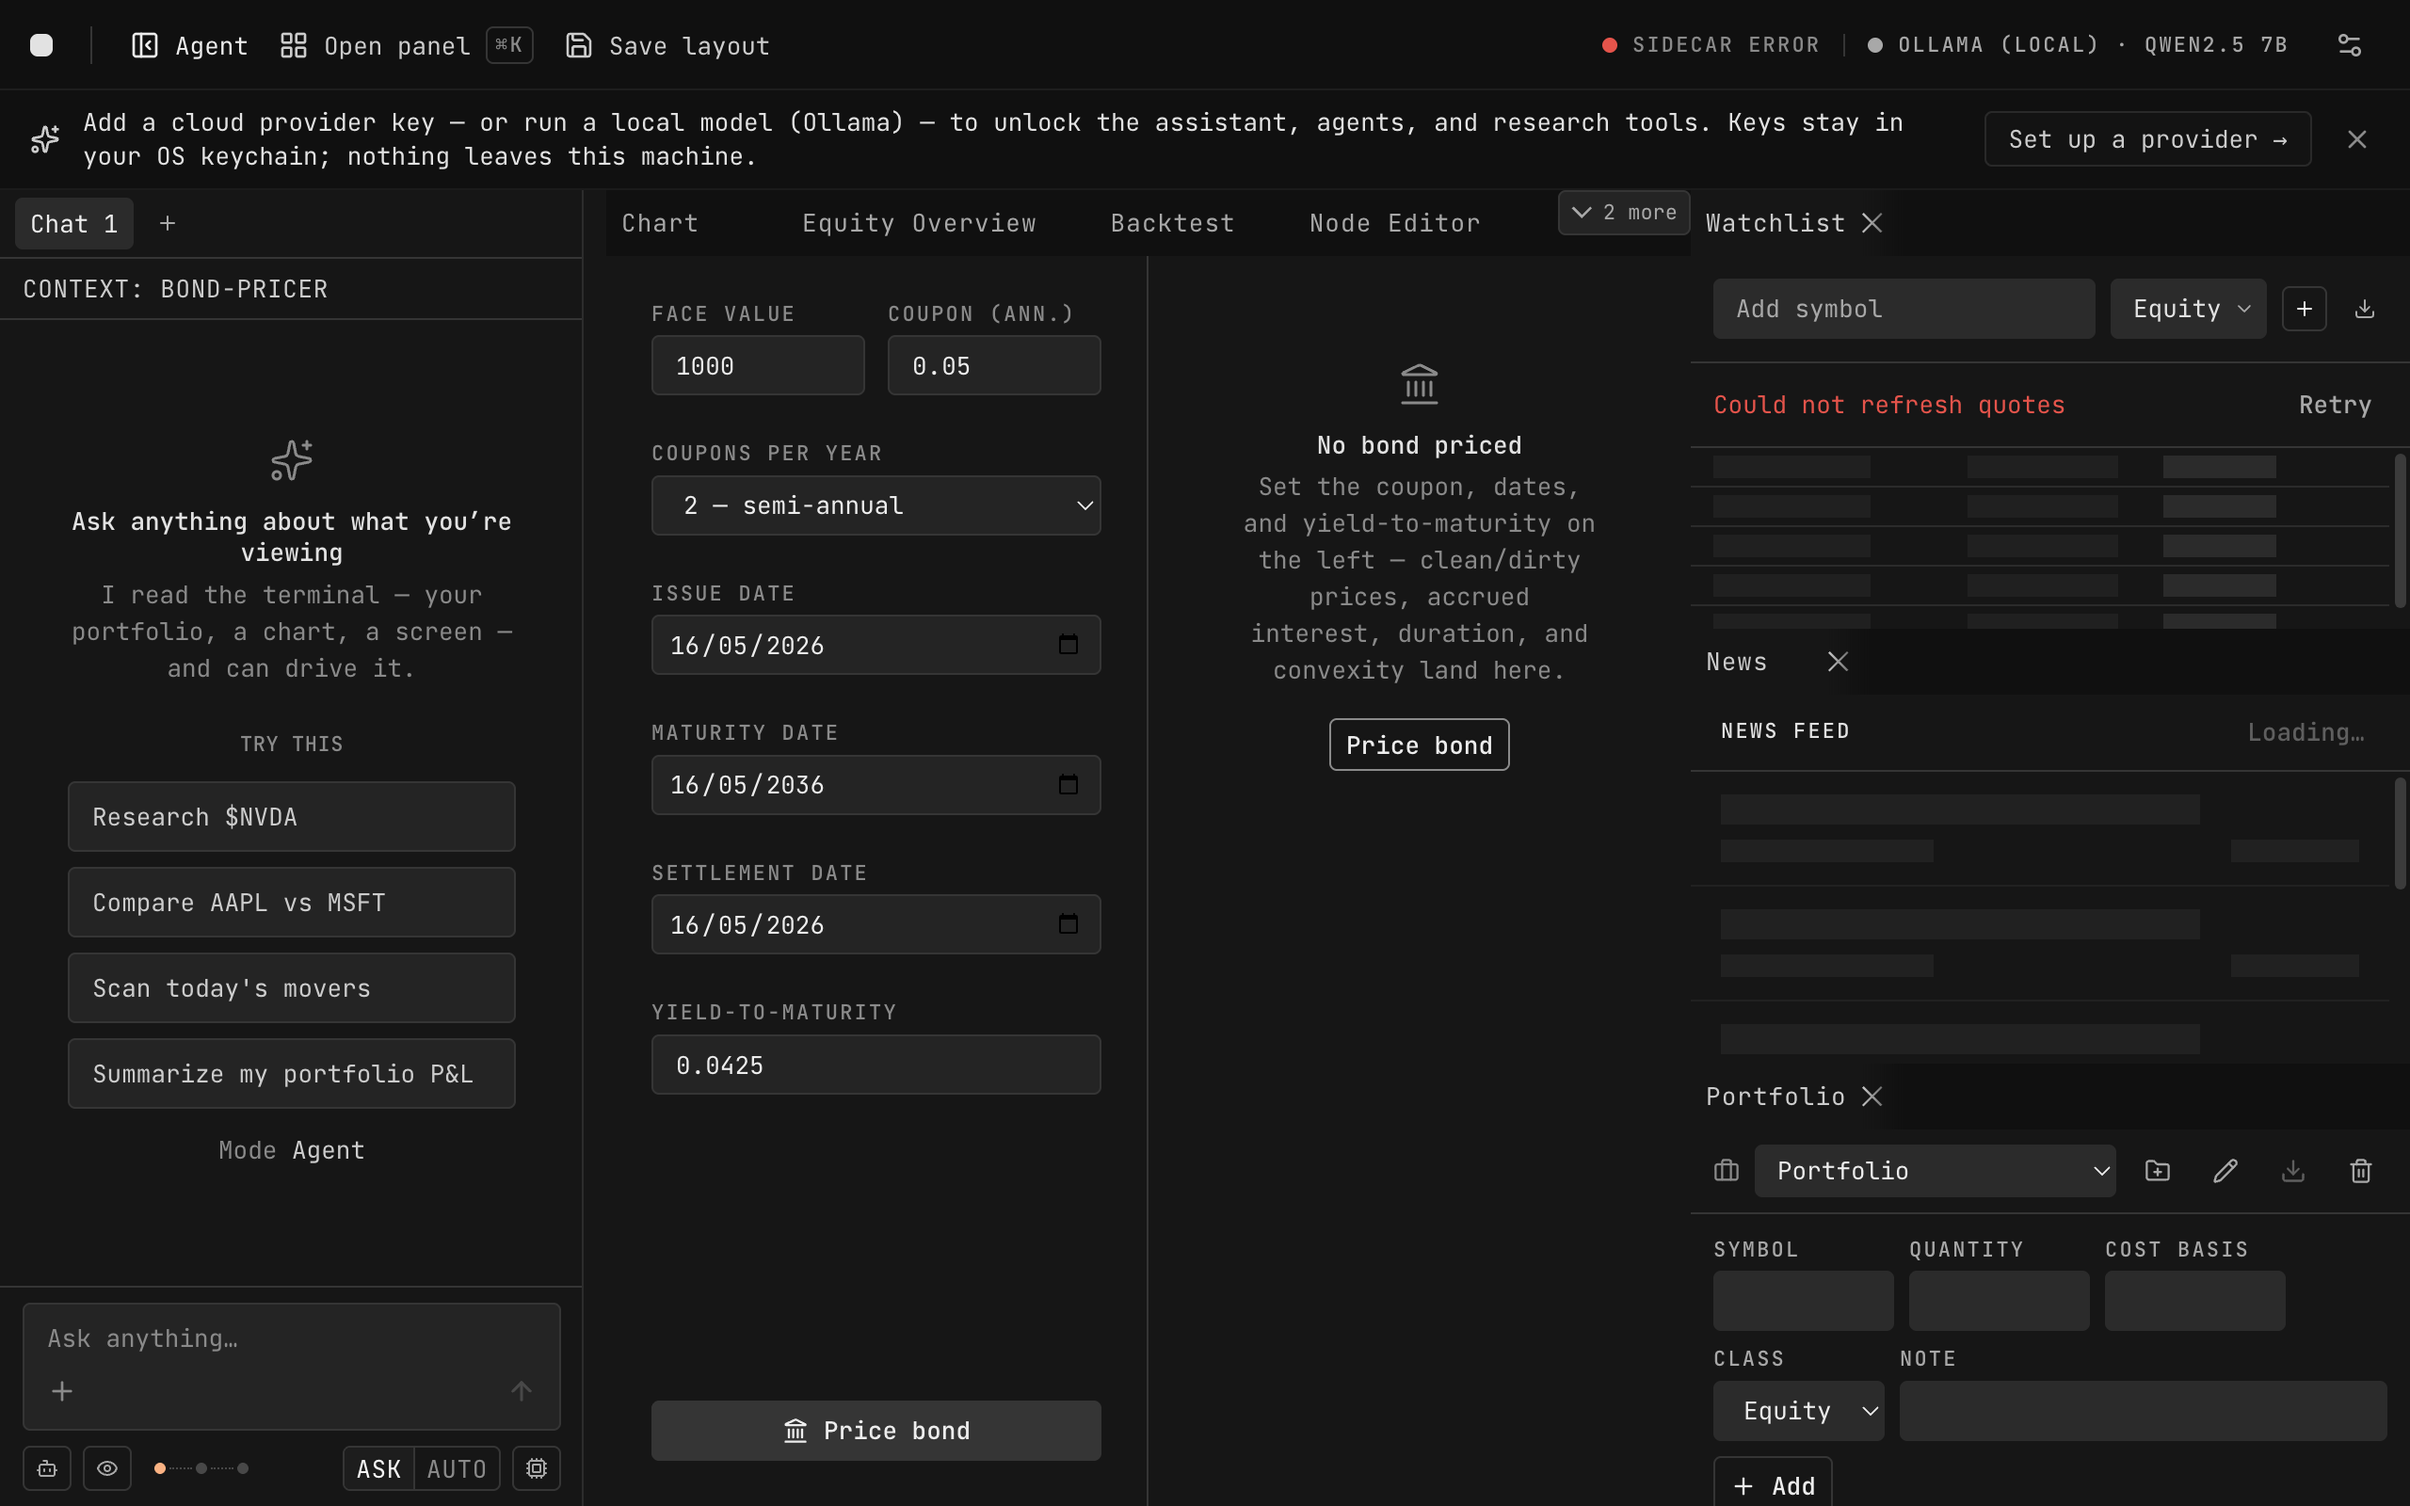
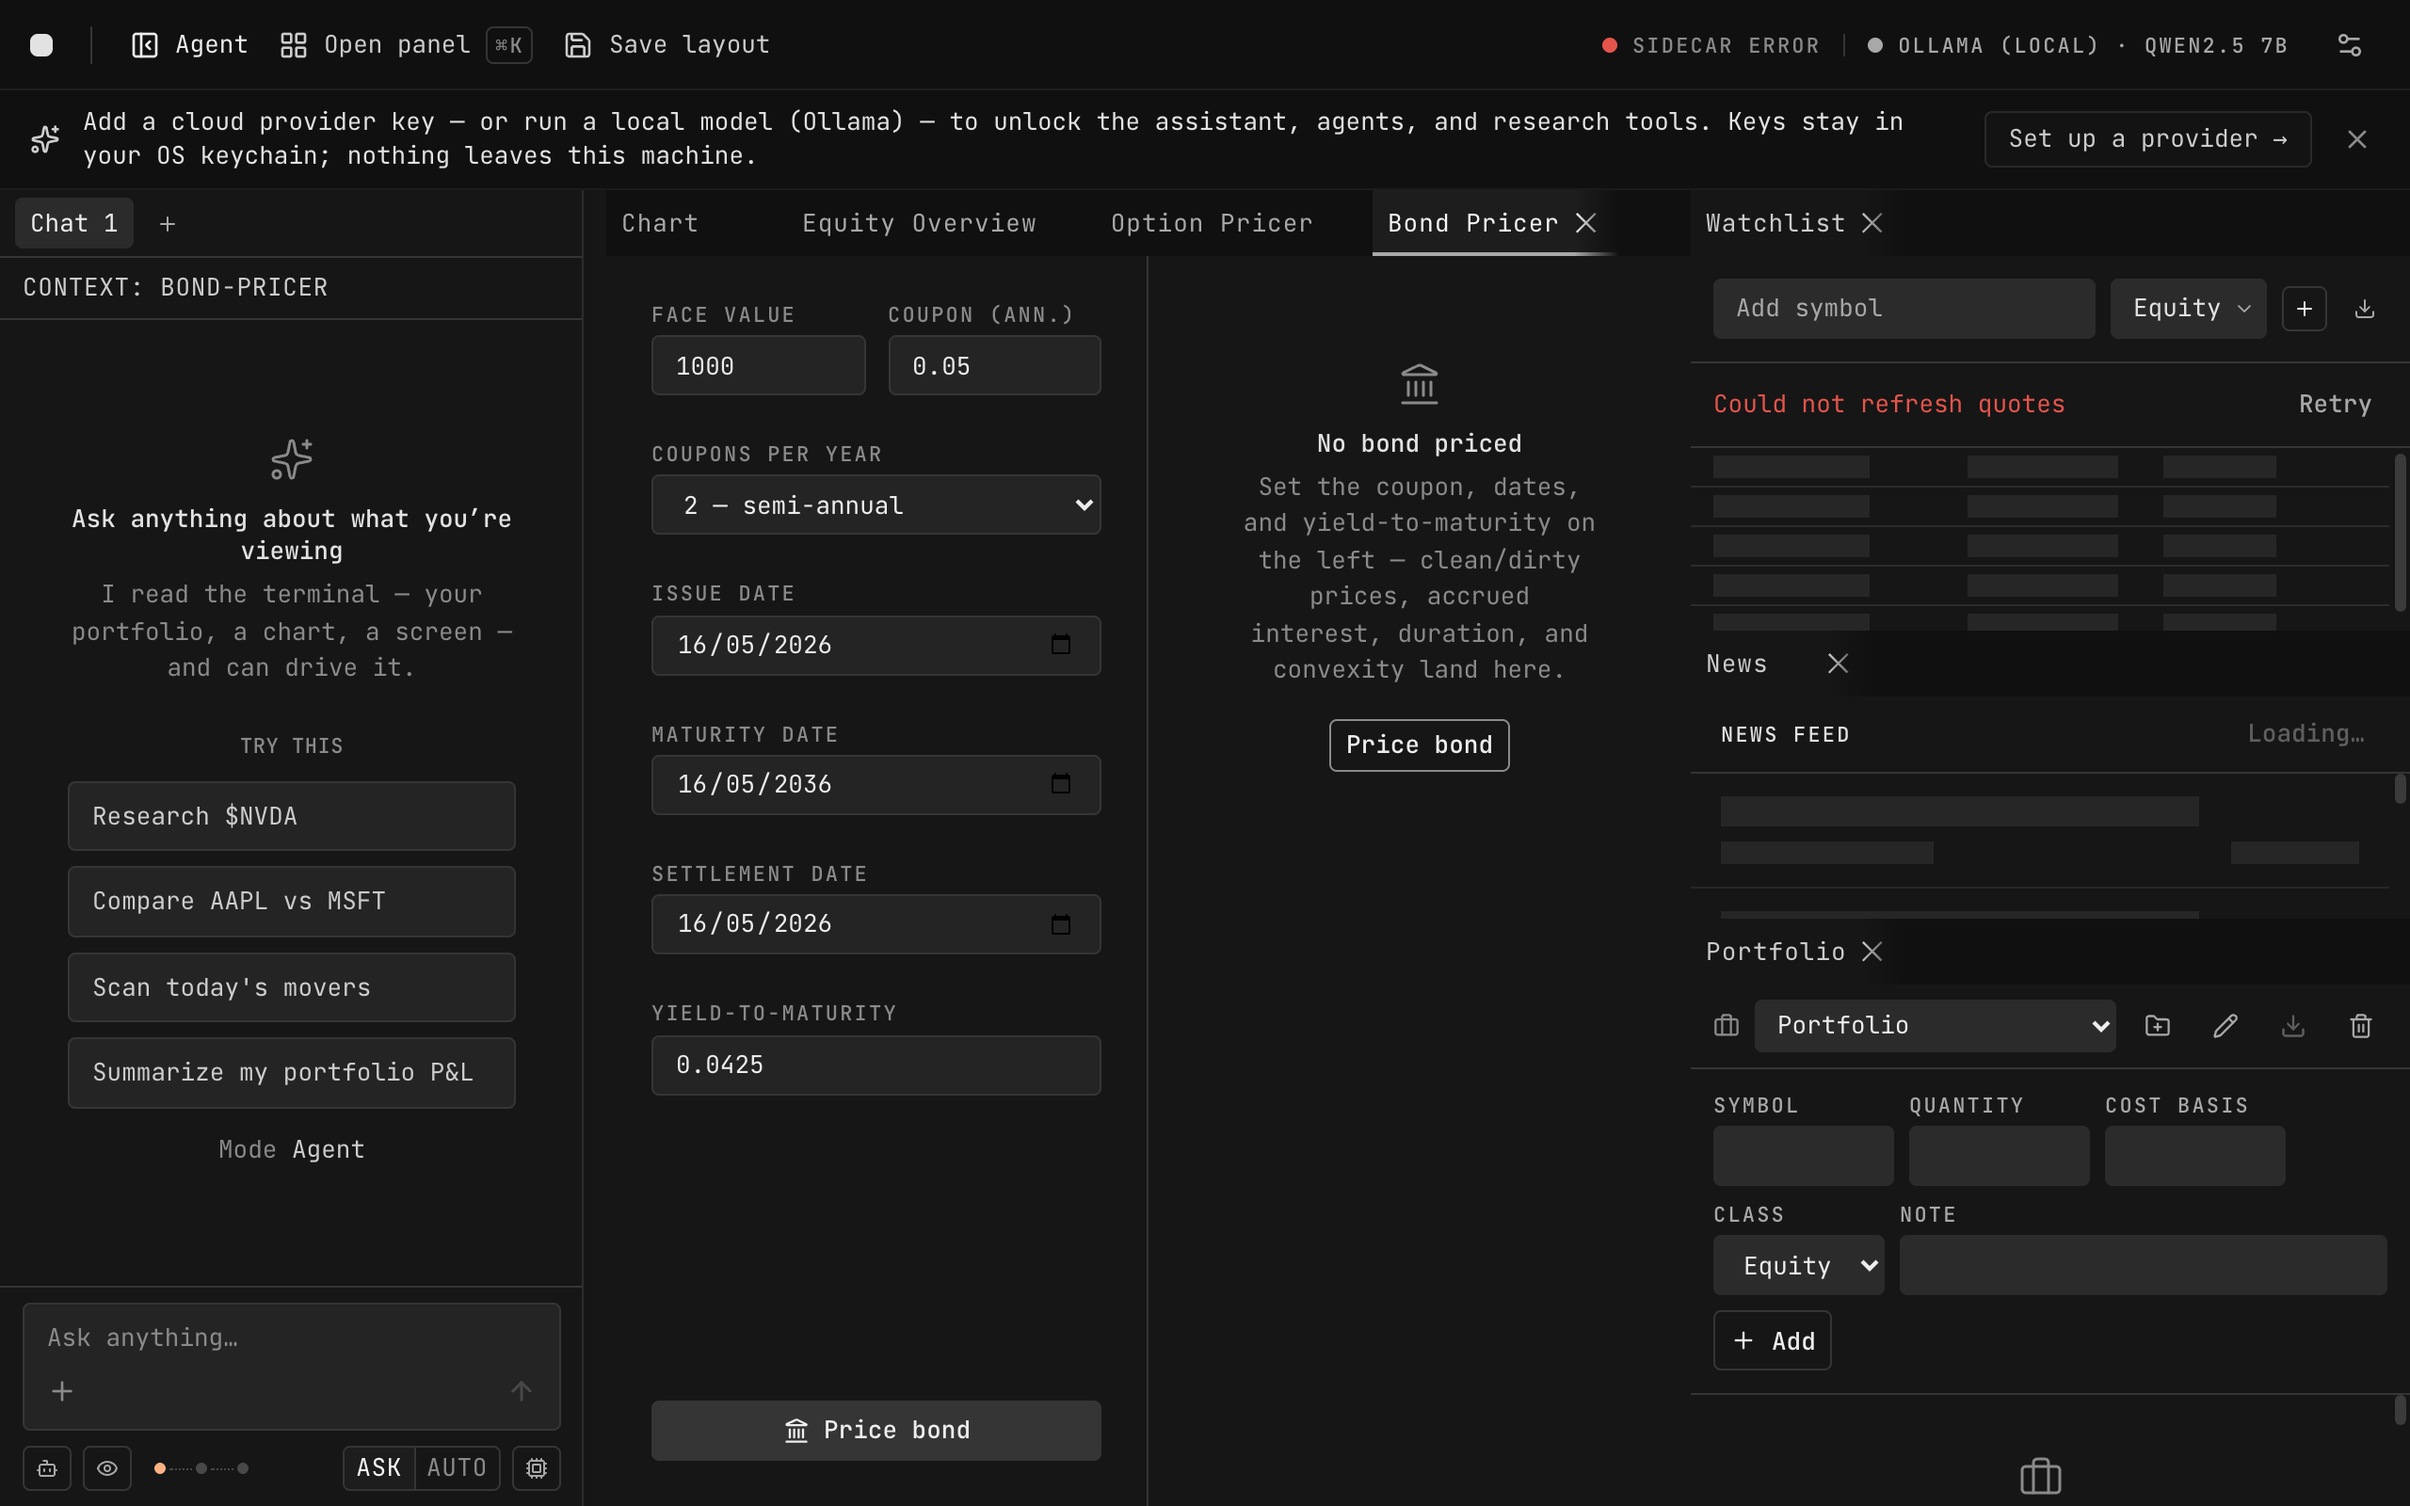
fix(r9): quant date inputs ride full-width rows - the 2-col grid step clipped the year
The de48fca px-2 inset did not deliver: at the option-pricer/greeks fixed
w-72 rail the 2-col grid cell is ~112px, and 112 - 16 (px-2) - ~22
(native calendar indicator) leaves less room than dd/mm/yyyy needs, so
the year's last digit rendered half-cut behind the icon at DEFAULT panel
width (reviewer blocker, E2 gate).

Fix follows the unaffected BondPricer reference: Valuation moves out of
the grid onto a full-width rail row (Volatility joins it so the grid
stays a clean 2x2 of paired numerics), and the px-2 date ternary reverts
to the uniform px-3 in all three Field components - full-width rows make
the inset hack unnecessary and restore left text-edge alignment.

Verified live (headless Chrome CDP at 1280x800@2x): every date field in
option-pricer/bond-pricer/greeks measures 226-237px clientWidth with
180-191px of text room for the ~51px dd/mm/yyyy (fits with 3.5x
headroom); 4x zoom crops of both Valuation fields show the full year.
The three affected captures are refreshed with the fixed rendering;
track report claims corrected to match.

vitest 141 files / 1378 tests green (quant 23/23); lint, typecheck,
format:check clean.

diff --git a/src/modules/quant/GreeksDashboard.tsx b/src/modules/quant/GreeksDashboard.tsx
@@ -58,9 +58,9 @@ function Field({ label, value, onChange, type = "number", step, disabled, testId
         onChange={(e) => onChange(e.target.value)}
         disabled={disabled}
         data-testid={testId}
-        // Date inputs reserve ~20px for the native calendar indicator — the
-        // tighter px-2 inset keeps dd/mm/yyyy whole at the 2-col grid step.
-        className={`bg-charcoal-850 text-charcoal-100 border-charcoal-700 rounded-control text-body focus-visible:border-charcoal-500 h-8 w-full border tabular-nums outline-none disabled:opacity-50 ${type === "date" ? "px-2" : "px-3"}`}
+        // Date inputs ride full-width rows (never the 2-col grid) so dd/mm/yyyy
+        // plus the native calendar indicator always fit at the fixed rail width.
+        className="bg-charcoal-850 text-charcoal-100 border-charcoal-700 rounded-control text-body focus-visible:border-charcoal-500 h-8 w-full border px-3 tabular-nums outline-none disabled:opacity-50"
       />
     </label>
   );
@@ -289,22 +289,24 @@ export function GreeksDashboard() {
           />
           <Field label="Risk-free r" value={r} onChange={setR} step="0.001" disabled={isRunning} />
           <Field label="Div. yield q" value={q} onChange={setQ} step="0.001" disabled={isRunning} />
-          <Field
-            label="Volatility σ"
-            value={vol}
-            onChange={setVol}
-            step="0.01"
-            disabled={isRunning}
-            testId="greeks-vol"
-          />
-          <Field
-            label="Valuation"
-            value={valuationDate}
-            onChange={setValuationDate}
-            type="date"
-            disabled={isRunning}
-          />
         </div>
+        <Field
+          label="Volatility σ"
+          value={vol}
+          onChange={setVol}
+          step="0.01"
+          disabled={isRunning}
+          testId="greeks-vol"
+        />
+        {/* Date fields take the rail's full width — at the 2-col grid step the
+            native calendar indicator clips the year's last digit. */}
+        <Field
+          label="Valuation"
+          value={valuationDate}
+          onChange={setValuationDate}
+          type="date"
+          disabled={isRunning}
+        />
         <Field
           label="Expiry"
           value={expiryDate}

diff --git a/src/modules/quant/OptionPricerPanel.tsx b/src/modules/quant/OptionPricerPanel.tsx
@@ -79,9 +79,9 @@ function Field({ label, value, onChange, type = "number", step, disabled, testId
         onChange={(e) => onChange(e.target.value)}
         disabled={disabled}
         data-testid={testId}
-        // Date inputs reserve ~20px for the native calendar indicator — the
-        // tighter px-2 inset keeps dd/mm/yyyy whole at the 2-col grid step.
-        className={`bg-charcoal-850 text-charcoal-100 border-charcoal-700 rounded-control text-body focus-visible:border-charcoal-500 h-8 w-full border tabular-nums outline-none disabled:opacity-50 ${type === "date" ? "px-2" : "px-3"}`}
+        // Date inputs ride full-width rows (never the 2-col grid) so dd/mm/yyyy
+        // plus the native calendar indicator always fit at the fixed rail width.
+        className="bg-charcoal-850 text-charcoal-100 border-charcoal-700 rounded-control text-body focus-visible:border-charcoal-500 h-8 w-full border px-3 tabular-nums outline-none disabled:opacity-50"
       />
     </label>
   );
@@ -412,22 +412,24 @@ export function OptionPricerPanel() {
             disabled={isRunning}
             testId="field-div"
           />
-          <Field
-            label="Volatility σ"
-            value={vol}
-            onChange={setVol}
-            step="0.01"
-            disabled={isRunning}
-            testId="field-vol"
-          />
-          <Field
-            label="Valuation"
-            value={valuationDate}
-            onChange={setValuationDate}
-            type="date"
-            disabled={isRunning}
-          />
         </div>
+        <Field
+          label="Volatility σ"
+          value={vol}
+          onChange={setVol}
+          step="0.01"
+          disabled={isRunning}
+          testId="field-vol"
+        />
+        {/* Date fields take the rail's full width — at the 2-col grid step the
+            native calendar indicator clips the year's last digit. */}
+        <Field
+          label="Valuation"
+          value={valuationDate}
+          onChange={setValuationDate}
+          type="date"
+          disabled={isRunning}
+        />
         <Field
           label="Expiry"
           value={expiryDate}

diff --git a/src/modules/quant/BondPricerPanel.tsx b/src/modules/quant/BondPricerPanel.tsx
@@ -54,9 +54,9 @@ function Field({ label, value, onChange, type = "number", step, disabled, testId
         onChange={(e) => onChange(e.target.value)}
         disabled={disabled}
         data-testid={testId}
-        // Date inputs reserve ~20px for the native calendar indicator — the
-        // tighter px-2 inset keeps dd/mm/yyyy whole at the 2-col grid step.
-        className={`bg-charcoal-850 text-charcoal-100 border-charcoal-700 rounded-control text-body focus-visible:border-charcoal-500 h-8 w-full border tabular-nums outline-none disabled:opacity-50 ${type === "date" ? "px-2" : "px-3"}`}
+        // Date inputs ride full-width rows (never the 2-col grid) so dd/mm/yyyy
+        // plus the native calendar indicator always fit at the fixed rail width.
+        className="bg-charcoal-850 text-charcoal-100 border-charcoal-700 rounded-control text-body focus-visible:border-charcoal-500 h-8 w-full border px-3 tabular-nums outline-none disabled:opacity-50"
       />
     </label>
   );

diff --git a/docs/redesign/R9_TRACK_PROPORTION_REPORT.md b/docs/redesign/R9_TRACK_PROPORTION_REPORT.md
@@ -51,8 +51,12 @@ canvas heights carry `tokens-ok` layout justifications.
       a 28px control. `node-editor-1280.png`, `node-editor-960.png`.
 - [x] **Quant** (option pricer, bond pricer, yield curve, greeks) — submit
       buttons join the h-8 form rung; chart canvas + skeleton carry tokens-ok;
-      date inputs take a px-2 inset so dd/mm/yyyy stays whole beside the native
-      calendar indicator. `option-pricer-1280.png`, `bond-pricer-1280.png`,
+      date inputs ride full-width rail rows (never the 2-col grid — at the grid
+      step the native calendar indicator clipped the year's last digit; the
+      earlier px-2 inset was not enough and is reverted to the uniform px-3),
+      with Volatility joining the full-width stack so the grid stays a clean
+      2×2. Verified by live DOM measure: every date field ≥180px of text room
+      for a ~51px dd/mm/yyyy. `option-pricer-1280.png`, `bond-pricer-1280.png`,
       `yield-curve-1280.png`, `greeks-dashboard-1280.png`.
 - [x] **Broker connect + order entry** (visual only, §6.5 untouched) — status/
       mode/read-only/provenance chips on the px-1 py-0.5 micro pattern (the
@@ -111,8 +115,8 @@ canvas heights carry `tokens-ok` layout justifications.
 2. **dockview minimum enforcement below viewport budget** — at 1280 wide with
    the default cockpit + an extra quant tab, the active group renders ~460px,
    under option-pricer's declared 640 minimum (dockview lets groups compress
-   when the sum of minimums exceeds the viewport). Inputs survive (the date
-   inset fix keeps dd/mm/yyyy whole) but the results column starves. Worth a
+   when the sum of minimums exceeds the viewport). Inputs survive (the rail is
+   fixed-width and date fields ride full rows) but the results column starves. Worth a
    lead-level look at whether minimums should clamp harder or the quant panels
    should declare a collapse ladder for the results column.
 3. **Sidecar-dependent populated states** (screener results, audit-log rows,
